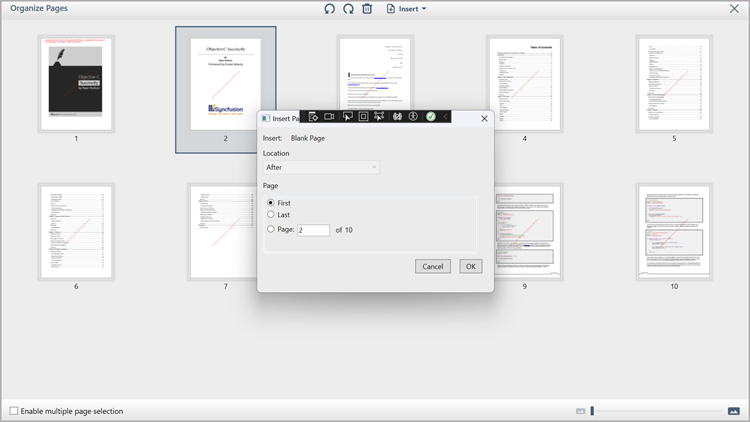
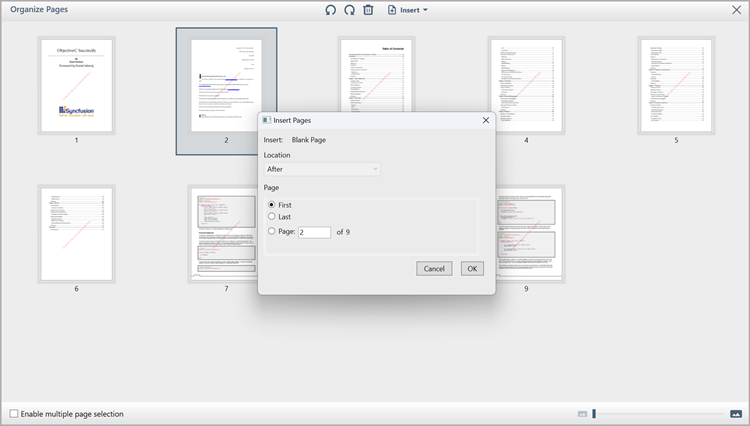
Insertion_page_feature

diff --git a/wpf/Pdf-Viewer/Organize-Pages.md b/wpf/Pdf-Viewer/Organize-Pages.md
@@ -9,7 +9,7 @@ documentation: ug
 
 # Organize Pages in WPF Pdf Viewer
 
-Organize pages support allows you to rotate, rearrange,insert and delete pages from a PDF document using a miniature preview of the PDF pages.
+Organize pages support allows you to rotate, rearrange, insert and delete pages from a PDF document using a miniature preview of the PDF pages.
 
 Use the following steps to organize the PDF page(s) in [PdfViewerControl](https://help.syncfusion.com/cr/wpf/Syncfusion.Windows.PdfViewer.PdfViewerControl.html):
 
@@ -29,11 +29,10 @@ Use the following steps to organize the PDF page(s) in [PdfViewerControl](https:
 
 	![WPF PDF Viewer Rearrange Pages](OrganizePages_Images/wpf-pdf-viewer-rearrange-pages.png)
 	
-5. You can insert a new PDF pages or a blank page using the Organize Pages toolbar.
+5. You can insert a blank page or any PDF page(s) using the Organize Pages toolbar.
     ![WPF PDF Viewer insert Pages](OrganizePages_Images/wpf-pdf-viewer-insert-pages-toolbar.png)
-6.You can insert new PDF pages or a blank page, and perform clipboard actions like Cut, Copy, and Paste using the context menu that appears when    hovering over a page.
+6.You can insert a blank page or any PDF page(s),and perform clipboard actions like Cut, Copy, and Paste using the more option in the context menu that appears when hovering over a pages.
    ![WPF PDF Viewer insert Pages option button](OrganizePages_Images/wpf-pdf-viewer-Option-button.png)
-By clicking the options button that appears when hovering the mouse over a page, you can access the context menu and perform the above mentioned operations.
     ![WPF PDF Viewer option button context menu](OrganizePages_Images/wpf-pdf-viewer-Option-button-contextmenu.png)
 
 ## Rotating PDF page(s)
@@ -247,20 +246,21 @@ pdfViewerControl.PageOrganizer.RemovePagesCommand.Execute(new int[] { 0, 1 });
 {% endhighlight %}
 {% endtabs %}
 
-## Insert Page(s) Position Customization
-When you try insert page(s) from either the Organize Pages toolbar or the context menu that appears when hovering over a page will open the default Insert Page Properties window.
+## Insert Page(s) Customization
+Insert page feature allows users to choose where to add pages using the **Insert Pages** window.Users can access this via from either the Organize Pages toolbar or the context menu that appears when hovering over a pages.
+In the window, there are three options **First**, **Last**, and **Page**. Selecting **First** inserts pages at the document's beginning, while **Last** adds them at the end. The **Page** option lets users specify a position using **Location** **Before** adds pages before the selected page, and **After** inserts them after.
+
+N> The **Location** is accessible only when the **Page** radio button is selected.
 ### From file 
- After the Insert Page Properties window open by clciking the **From file**. In this window, you can view the name of the file being inserted. This window includes a **Location** section with a dropdown that lets you choose whether to insert the new pdf pages before or after the currently selected page. Selecting Before will insert the new PDF pages before the selectedpage, while selecting After will insert them after. Additionally, there are three radio buttons labeled **First**,**Last**, and **Page**. Choosing **First** inserts the new pdf pages at the beginning of the document, while **Last** places them at the end. Selecting **Page** enables the **Location** dropdown, allowing you to insert the new pdf pages at a specific position based on your customization.
- 
-     ![WPF PDF Viewer insert page window ](OrganizePages_Images/wpf-pdf-viewer-insert-page-window.png)
+When users want to insert pages using the **From File** option, a browser window will open to select a PDF. Once selected, all pages from the PDF are inserted into the document based on the customization in the **Insert Pages** window.
+
+![WPF PDF Viewer insert page window ](OrganizePages_Images/wpf-pdf-viewer-insert-page-window.png)
 	 
-N> The Location dropdown is only available when the 'Page' radio button is selected.	 
 ### Blank page 
- After the Insert Page Properties window open by clciking the **Blank page**. In this window, you can view the name of the inserted page as Blank page. This window includes a **Location** section with a dropdown that lets you choose whether to insert the new blank page before or after the currently selected page. Selecting Before will insert the new blank page before the selectedpage, while selecting After will insert them after. Additionally, there are three radio buttons labeled **First**,**Last**, and **Page**. Choosing **First** inserts the new blank page at the beginning of the document, while **Last** places them at the end. Selecting **Page** enables the **Location** dropdown, allowing you to insert the new blank page at a specific position based on your customization.
- 
-    ![WPF PDF Viewer insert page window blank page ](OrganizePages_Images/wpf-pdf-viewer-insert-page-window-blank-page.png)
-	
-N> The Location dropdown is only available when the 'Page' radio button is selected.	
+To insert a page using the **Blank Page** option, a single blank page will be added to the document as per the Customization in the **Insert Pages** window.
+
+![WPF PDF Viewer insert page window blank page ](OrganizePages_Images/wpf-pdf-viewer-insert-page-window-blank-page.png)	
+
 ## Get the selected page indexes
 
 You can get the selected page indexes of the PDF document in the organizing pages window. The [PageSelected](https://help.syncfusion.com/cr/wpf/Syncfusion.Windows.PdfViewer.PdfViewerControl.html#Syncfusion_Windows_PdfViewer_PdfViewerControl_PageSelected) event indicates that a page(s) is selected and the [SelectedPages](https://help.syncfusion.com/cr/wpf/Syncfusion.Windows.PdfViewer.PageSelectedEventArgs.html#Syncfusion_Windows_PdfViewer_PageSelectedEventArgs_SelectedPages) property of the [PageSelectedEventArgs](https://help.syncfusion.com/cr/wpf/Syncfusion.Windows.PdfViewer.PageSelectedEventArgs.html) provides you the index of the pages that are currently selected. The following code shows how to wire the event in [PdfViewerControl](https://help.syncfusion.com/cr/wpf/Syncfusion.Windows.PdfViewer.PdfViewerControl.html).
